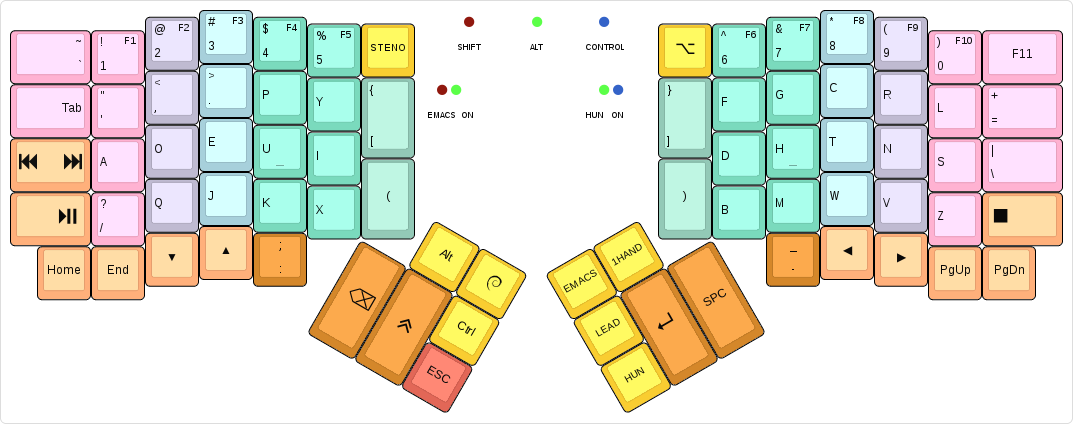
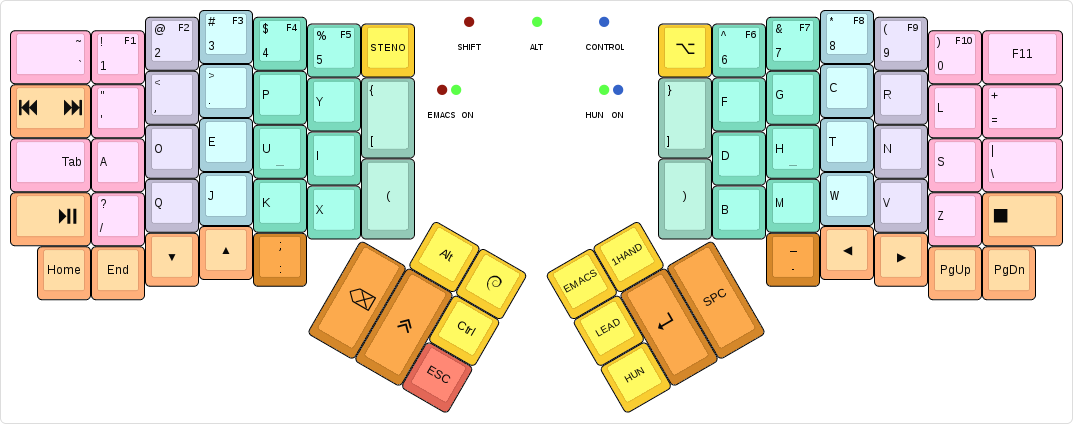
Swap Tab with the Media Next/Prev keys
Tab is used often, having it on the home row is good. Fixes #40.

Changed region(s): [[0.0, 0.184, 0.0923, 0.4599]]

diff --git a/keymap.c b/keymap.c
@@ -138,9 +138,9 @@ const uint16_t PROGMEM keymaps[][MATRIX_ROWS][MATRIX_COLS] = {
  * ,-----------------------------------------------------.           ,-----------------------------------------------------.
  * |        `~ | 1 F1 | 2 F2 | 3 F3 | 4 F4 | 5 F5 | Apps |           | Apps | 6 F6 | 7 F7 | 8 F8 | 9 F9 | 0 F10|       F11 |
  * |-----------+------+------+------+------+-------------|           |------+------+------+------+------+------+-----------|
- * |       Tab |   '  |   ,  |   .  |   P  |   Y  |   [  |           |  ]   |   F  |   G  |   C  |   R  |  L   | =         |
+ * | Next/Prev |   '  |   ,  |   .  |   P  |   Y  |   [  |           |  ]   |   F  |   G  |   C  |   R  |  L   | =         |
  * |-----------+------+------+------+------+------|      |           |      |------+------+------+------+------+-----------|
- * | Next/Prev |   A  |   O  |   E  |   U  |   I  |------|           |------|   D  |   H  |   T  |   N  |  S   | \         |
+ * |       Tab |   A  |   O  |   E  |   U  |   I  |------|           |------|   D  |   H  |   T  |   N  |  S   | \         |
  * |-----------+------+------+------+------+------|   (  |           |  )   |------+------+------+------+------+-----------|
  * | Play/Pause|   /  |   Q  |   J  |   K  |   X  |      |           |      |   B  |   M  |   W  |   V  |  Z   |      Stop |
  * `-----------+------+------+------+------+-------------'           `-------------+------+------+------+------+-----------'
@@ -157,8 +157,8 @@ const uint16_t PROGMEM keymaps[][MATRIX_ROWS][MATRIX_COLS] = {
 [BASE] = KEYMAP(
 // left hand
  KC_GRV             ,M(KF_1)     ,M(KF_2)     ,M(KF_3),M(KF_4),M(KF_5),KC_APP
-,KC_TAB             ,KC_QUOT     ,KC_COMM     ,KC_DOT ,KC_P   ,KC_Y   ,KC_LBRC
-,M(A_MPN)           ,KC_A        ,KC_O        ,KC_E   ,KC_U   ,KC_I
+,M(A_MPN)           ,KC_QUOT     ,KC_COMM     ,KC_DOT ,KC_P   ,KC_Y   ,KC_LBRC
+,KC_TAB             ,KC_A        ,KC_O        ,KC_E   ,KC_U   ,KC_I
 ,KC_MPLY            ,KC_SLSH     ,KC_Q        ,KC_J   ,KC_K   ,KC_X   ,KC_LPRN
 ,KC_HOME            ,KC_END      ,KC_DOWN     ,KC_UP  ,M(A_COLN)
 
@@ -410,9 +410,9 @@ const uint16_t PROGMEM keymaps[][MATRIX_ROWS][MATRIX_COLS] = {
  * ,-----------------------------------------------------.           ,-----------------------------------------------------.
  * |        `~ | 1 F1 | 2 F2 | 3 F3 | 4 F4 | 5 F5 | Plvr |           | Apps | 6 F6 | 7 F7 | 8 F8 | 9 F9 | 0 F10|       F11 |
  * |-----------+------+------+------+------+-------------|           |------+------+------+------+------+------+-----------|
- * |       Tab |   '  |   ,  |   .  |   P  |   Y  |   [  |           |  ]   |   Q  |   F  |   C  |   R  |  J   | =         |
+ * | Next/Prev |   '  |   ,  |   .  |   P  |   Y  |   [  |           |  ]   |   Q  |   F  |   C  |   R  |  J   | =         |
  * |-----------+------+------+------+------+------|      |           |      |------+------+------+------+------+-----------|
- * | Next/Prev |   A  |   O  |   E  |   U  |   I  |------|           |------|   D  |   H  |   T  |   N  |  S   | \         |
+ * |       Tab |   A  |   O  |   E  |   U  |   I  |------|           |------|   D  |   H  |   T  |   N  |  S   | \         |
  * |-----------+------+------+------+------+------|   (  |           |  )   |------+------+------+------+------+-----------|
  * | Play/Pause|   Z  |   K  |   V  |   G  |   X  |      |           |      |   L  |   M  |   W  |   B  |  /   |      Stop |
  * `-----------+------+------+------+------+-------------'           `-------------+------+------+------+------+-----------'
@@ -429,8 +429,8 @@ const uint16_t PROGMEM keymaps[][MATRIX_ROWS][MATRIX_COLS] = {
 [EXPRM] = KEYMAP(
 // left hand
  KC_GRV             ,M(KF_1)     ,M(KF_2)     ,M(KF_3),M(KF_4),M(KF_5),M(A_PLVR)
-,KC_TAB             ,KC_QUOT     ,KC_COMM     ,KC_DOT ,KC_P   ,KC_Y   ,KC_LBRC
-,M(A_MPN)           ,KC_A        ,KC_O        ,KC_E   ,KC_U   ,KC_I
+,M(A_MPN)           ,KC_QUOT     ,KC_COMM     ,KC_DOT ,KC_P   ,KC_Y   ,KC_LBRC
+,KC_TAB             ,KC_A        ,KC_O        ,KC_E   ,KC_U   ,KC_I
 ,KC_MPLY            ,KC_Z        ,KC_K        ,KC_V   ,KC_G   ,KC_X   ,KC_LPRN
 ,KC_HOME            ,KC_END      ,KC_DOWN     ,KC_UP  ,M(A_COLN)
 
